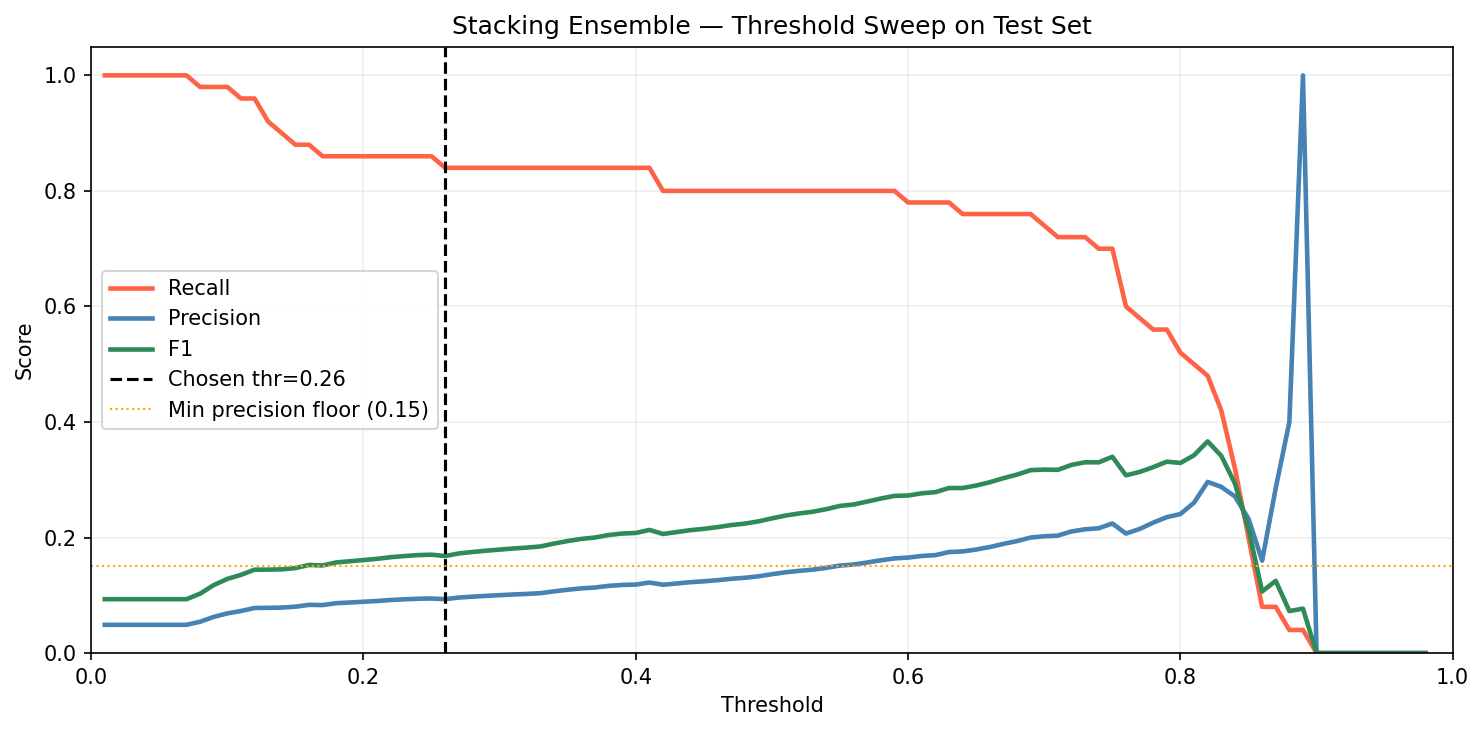
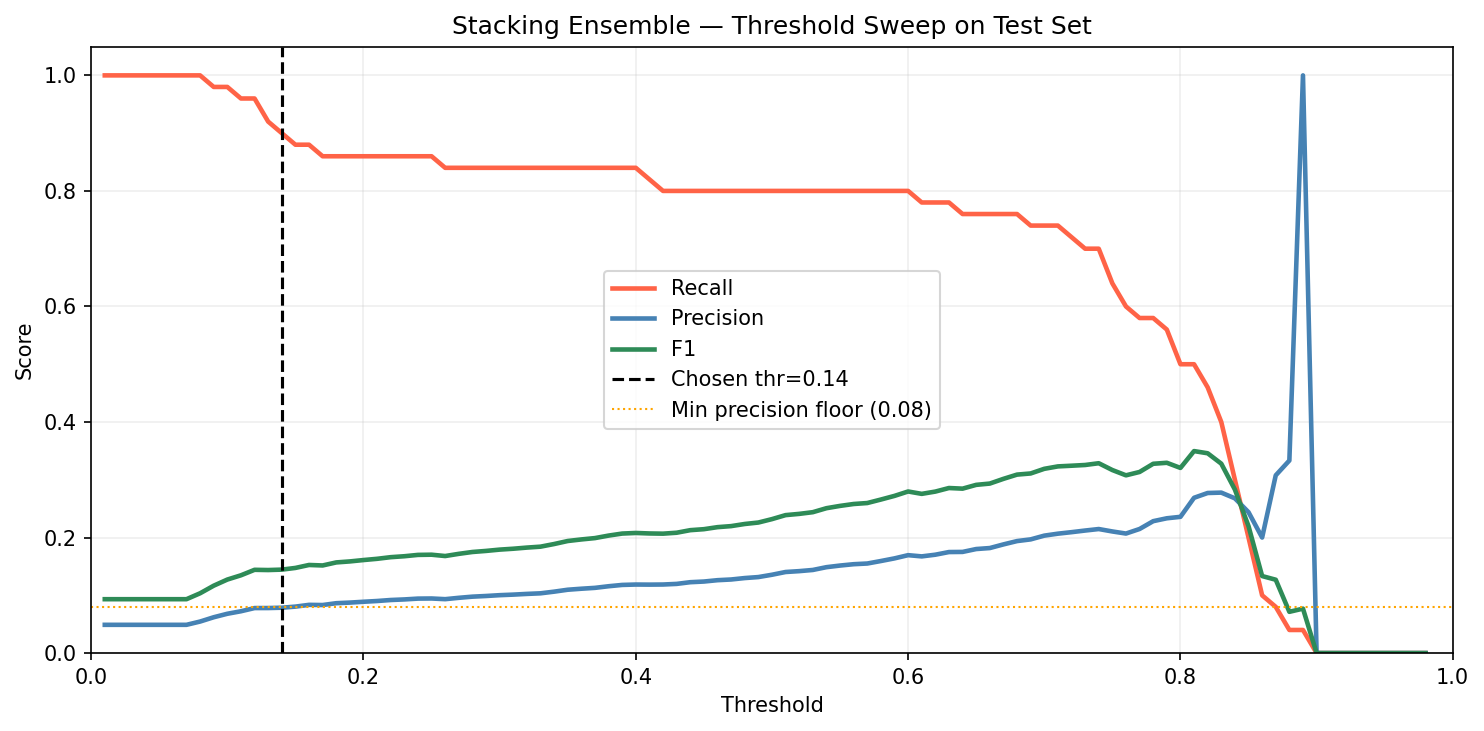
recall is optimized in lr and se.

diff --git a/final_stroke_ensemble.py b/final_stroke_ensemble.py
@@ -146,7 +146,7 @@ def smote(X, y, sampling_strategy=0.35, k=5, random_state=RANDOM_STATE):
 def make_logistic(spw):
     # spw not used directly — class_weight='balanced' handles it
     return LogisticRegression(
-        C=0.1, max_iter=2000, solver="lbfgs",
+        C=0.5, max_iter=2000, solver="lbfgs",
         class_weight="balanced", random_state=RANDOM_STATE
     )
 
@@ -174,10 +174,10 @@ def make_xgboost(spw):
 # ══════════════════════════════════════════════════════════════════
 # STEP 5 — THRESHOLD TUNING
 # ══════════════════════════════════════════════════════════════════
-def tune_threshold(y_true, y_proba, min_precision=0.10):
+def tune_threshold(y_true, y_proba, min_precision=0.08):
     """
     Maximise recall subject to precision >= min_precision.
-    min_precision=0.10 means: for every 10 patients flagged,
+    min_precision=0.08 means: for every 12 patients flagged,
     at least 1 must be a real stroke — acceptable for screening.
     """
     best_thr, best_recall = 0.5, 0.0
@@ -331,7 +331,7 @@ def main():
     thresholds = {}
     all_names  = list(BASE_FNS.keys()) + ["Soft Voting", "Stacking"]
     for name in all_names:
-        thr = tune_threshold(y_val.values, val_probas[name], min_precision=0.10)
+        thr = tune_threshold(y_val.values, val_probas[name], min_precision=0.08)
         thresholds[name] = thr
         r   = evaluate(name, y_val.values, val_probas[name], thr)
         print(f"  {name:<22} thr={thr:.2f}  "
@@ -522,8 +522,8 @@ def main():
     ax3.plot(thrs, f1s,   label="F1",        color="seagreen",  linewidth=2.2)
     ax3.axvline(thresholds["Stacking"], color="black", linestyle="--",
                 linewidth=1.5, label=f"Chosen thr={thresholds['Stacking']:.2f}")
-    ax3.axhline(0.15, color="orange", linestyle=":", linewidth=1,
-                label="Min precision floor (0.15)")
+    ax3.axhline(0.08, color="orange", linestyle=":", linewidth=1,
+                label="Min precision floor (0.08)")
     ax3.set_title("Stacking Ensemble — Threshold Sweep on Test Set")
     ax3.set_xlabel("Threshold")
     ax3.set_ylabel("Score")

diff --git a/final_clean.py b/final_clean.py
@@ -46,7 +46,7 @@ def add_interaction_features(df: pd.DataFrame) -> pd.DataFrame:
     df_out["age_x_heart"] = df_out["age"] * df_out["has_heart_disease"]
     df_out["glucose_x_hypertension"] = df_out["glucose_level"] * df_out["has_hypertension"]
     df_out["age_risk_score"] = df_out["age"] * (
-        df_out["has_hypertension"] + df_out["has_hypertension"]
+        df_out["has_hypertension"] + df_out["has_heart_disease"]
     )
     return df_out
 